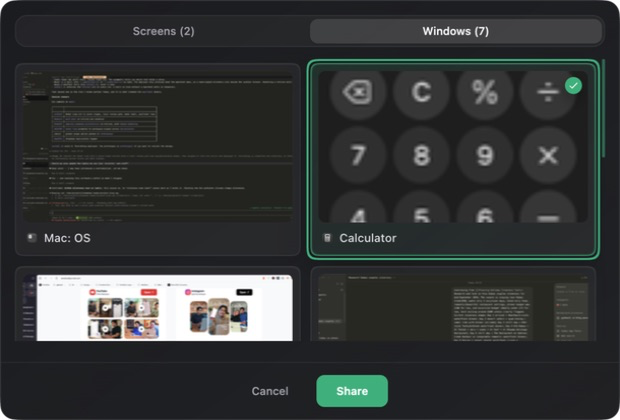
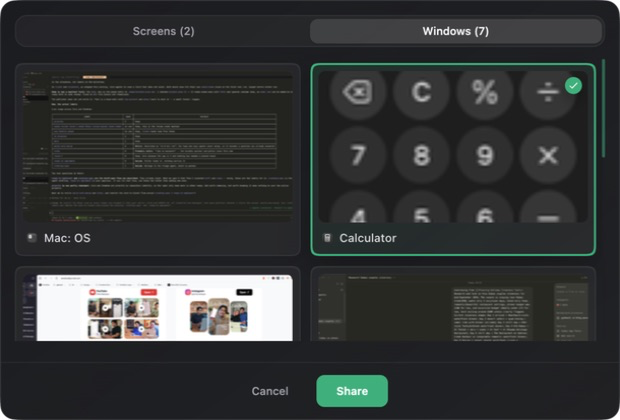
fix(launch): keep source focus ring inside card

diff --git a/src/components/launch/SourceSelector.module.css b/src/components/launch/SourceSelector.module.css
@@ -35,10 +35,12 @@
 	box-shadow: 0 10px 24px rgba(0, 0, 0, 0.22), inset 0 1px 0 rgba(255, 255, 255, 0.04);
 }
 
-/* Keyboard focus ring for the radio-role source cards (roving tabIndex). */
+/* Keyboard focus ring for the radio-role source cards (roving tabIndex).
+   The 2px outline is drawn inside the card so it cannot be clipped by the
+   scroll container's overflow. */
 .sourceCard:focus-visible {
 	outline: 2px solid #34b27b;
-	outline-offset: 2px;
+	outline-offset: -2px;
 }
 
 .selected {

diff --git a/implementation-notes.md b/implementation-notes.md
@@ -944,3 +944,15 @@ disappearance fallback) "run behind the empty-state Reload seam": they do not. T
 point), and no populated refetch action exists in the picker. Those transitions are internal
 `fetchSources`/derivation behavior with no public seam, which is why the corresponding PLAN.md
 bullets were deleted.
+
+### 2026-09-09 Greptile round 1 fix (PR #79) -- focus ring drawn inside the card
+
+Validated finding: `.sourceCard:focus-visible` used `outline-offset: 2px`, drawing the 2px
+focus ring 2px outside the card edge. The source grids are
+`overflow-y-auto` scroll containers, so an outside ring on cards at the grid's edge can be
+clipped by the scroll container instead of rendering fully around the focused radio.
+
+Correction: `outline-offset` changed from `2px` to `-2px` in
+`src/components/launch/SourceSelector.module.css`, so the 2px outline is rendered inside the
+card and can never be clipped by the grid's overflow. CSS-only; layout, keyboard behavior,
+roving tabIndex, and all tests are untouched. No RED test was made per instruction.

diff --git a/artifacts/75/Verification.md b/artifacts/75/Verification.md
@@ -21,6 +21,7 @@ Environment: macOS, patched ticket worktree (uncommitted verification build)
 - [passed] No recording file changed during keyboard verification
 - [passed] Reload produced an unchecked named radio and disabled Share
 - [passed] Independent Codex review cycle 2 found no findings
+- [passed] Current-head inset focus ring remained visible on Calculator
 
 Routing: coordinator explicitly assigned unmilestoned issue #75 to maintenance mode.
 
